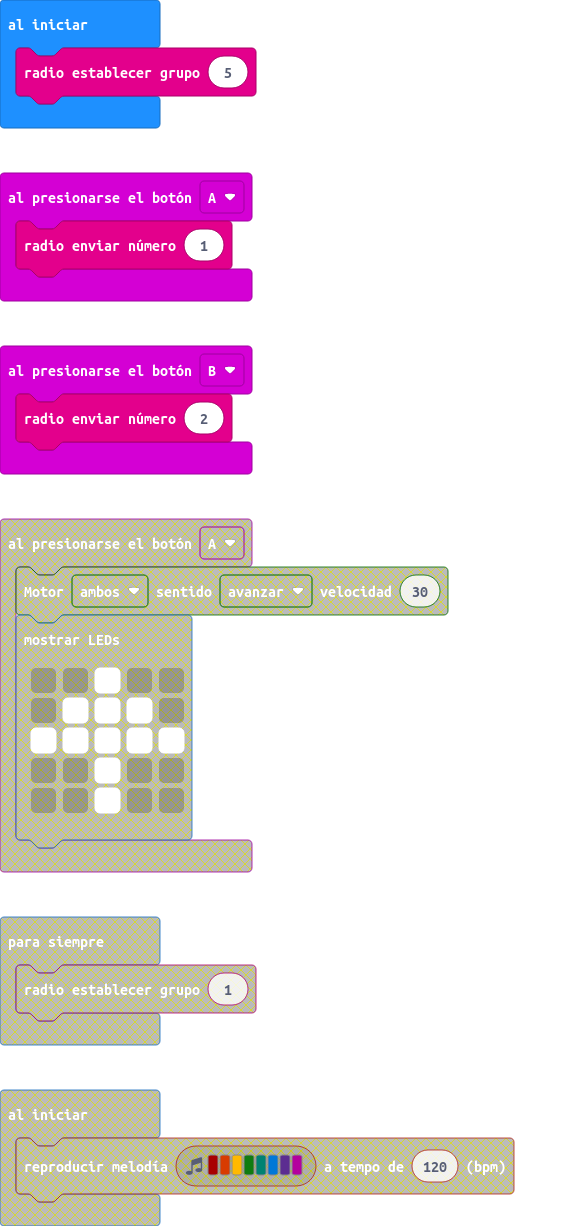
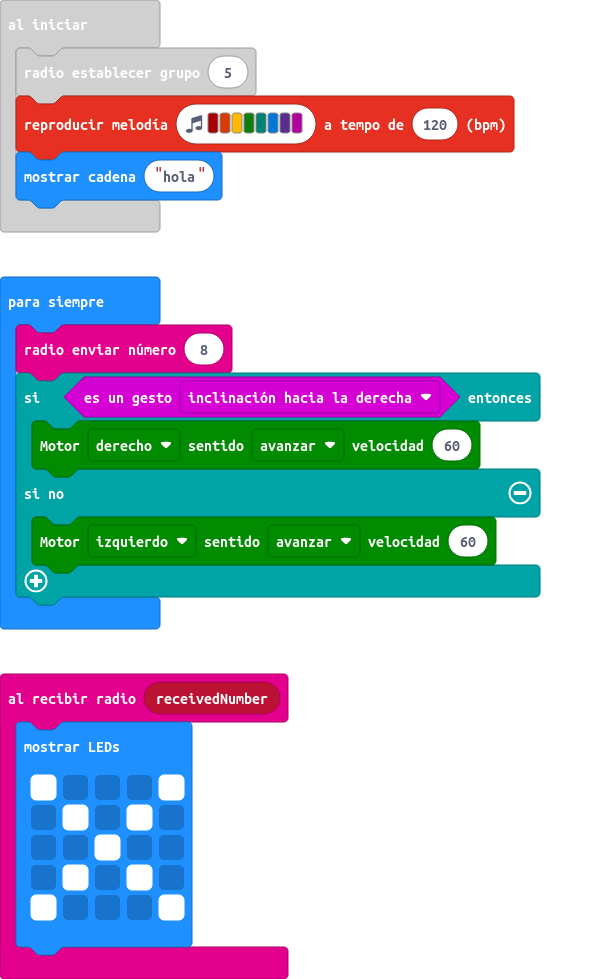
jwt h

diff --git a/main.ts b/main.ts
@@ -1,3 +1,12 @@
+radio.onReceivedNumber(function (receivedNumber) {
+    basic.showLeds(`
+        # . . . #
+        . # . # .
+        . . # . .
+        . # . # .
+        # . . . #
+        `)
+})
 input.onButtonPressed(Button.A, function () {
     radio.sendNumber(1)
 })
@@ -5,3 +14,13 @@ input.onButtonPressed(Button.B, function () {
     radio.sendNumber(2)
 })
 radio.setGroup(5)
+music.playMelody("C5 B A G F E D C ", 120)
+basic.showString("hola")
+basic.forever(function () {
+    radio.sendNumber(8)
+    if (input.isGesture(Gesture.TiltRight)) {
+        maqueen.motorRun(maqueen.Motors.M2, maqueen.Dir.CW, 60)
+    } else {
+        maqueen.motorRun(maqueen.Motors.M1, maqueen.Dir.CW, 60)
+    }
+})
